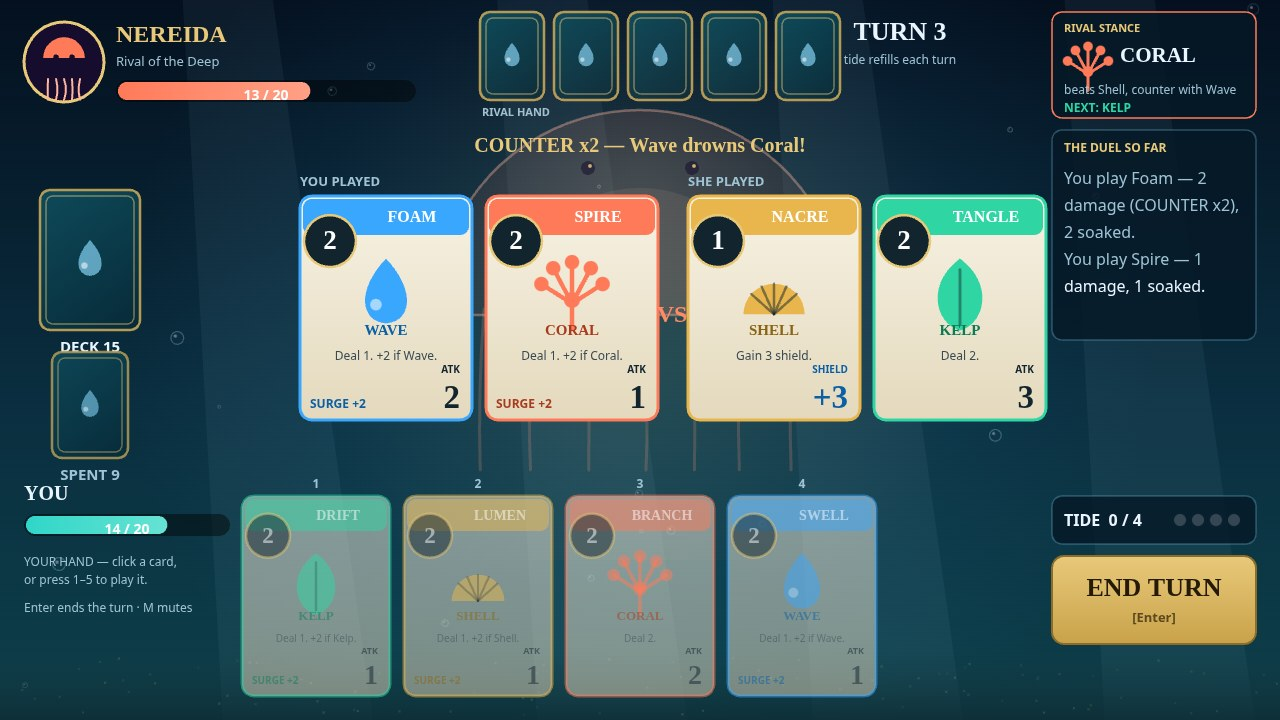
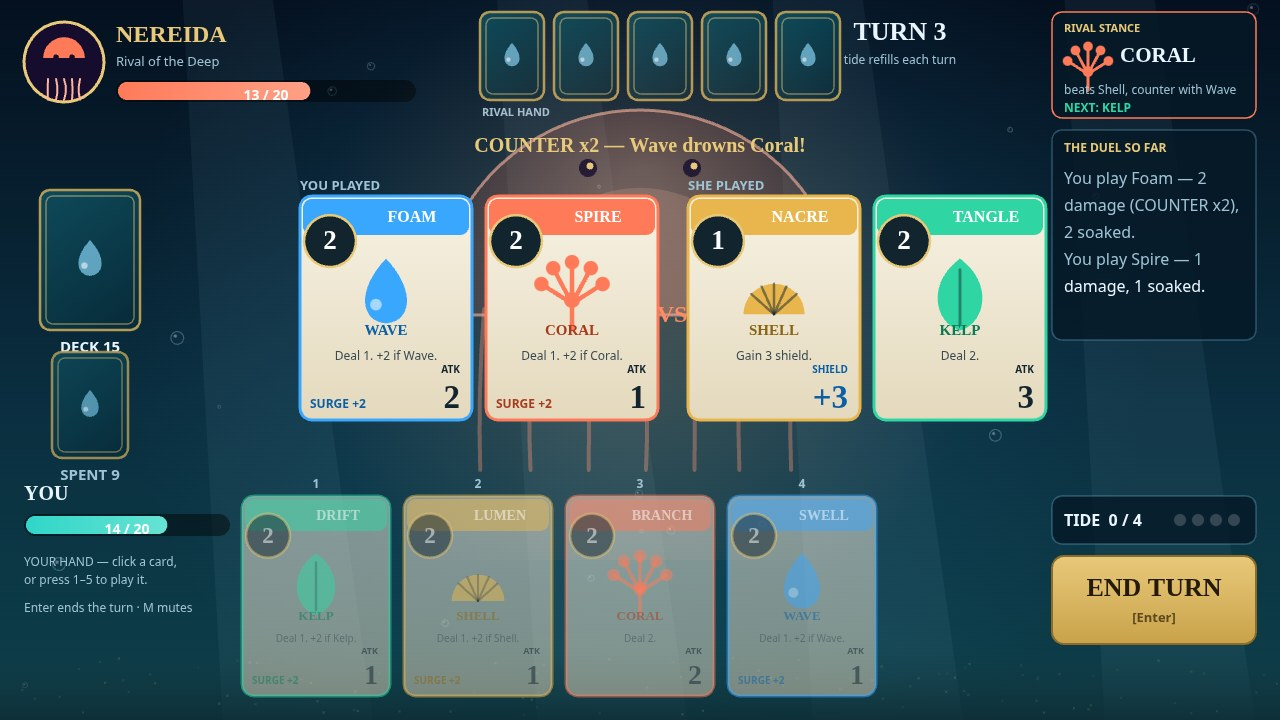
Initial entry: makefun-best-card-game-20261122-1826

diff --git a/game/src/render.js b/game/src/render.js
@@ -441,45 +441,47 @@ function drawNereidaFigure(ctx, world) {
   const domeY = 315;
   const r = 205;
   // Warm halo behind the whole clash, so the figure reads as one glow.
+  // Alpha ~2x the r1 values: the dome was a rumour at thumbnail size.
   const halo = ctx.createRadialGradient(cx, 310, 30, cx, 310, 340);
-  halo.addColorStop(0, 'rgba(255, 122, 89, 0.10)');
-  halo.addColorStop(0.6, 'rgba(255, 122, 89, 0.04)');
+  halo.addColorStop(0, 'rgba(255, 122, 89, 0.20)');
+  halo.addColorStop(0.6, 'rgba(255, 122, 89, 0.08)');
   halo.addColorStop(1, 'rgba(255, 122, 89, 0)');
   ctx.fillStyle = halo;
   ctx.fillRect(cx - 340, 0, 680, 560);
   // The dome: a half-disc rising above the clash row.
   const dome = ctx.createRadialGradient(cx, 190, 20, cx, 240, r);
-  dome.addColorStop(0, 'rgba(255, 170, 140, 0.17)');
-  dome.addColorStop(0.7, 'rgba(255, 122, 89, 0.10)');
-  dome.addColorStop(1, 'rgba(255, 122, 89, 0.04)');
+  dome.addColorStop(0, 'rgba(255, 170, 140, 0.30)');
+  dome.addColorStop(0.7, 'rgba(255, 122, 89, 0.18)');
+  dome.addColorStop(1, 'rgba(255, 122, 89, 0.08)');
   ctx.beginPath();
   ctx.arc(cx, domeY, r, Math.PI, 0);
   ctx.closePath();
   ctx.fillStyle = dome;
   ctx.fill();
-  ctx.lineWidth = 2.5;
-  ctx.strokeStyle = 'rgba(255, 181, 158, 0.38)';
+  ctx.lineWidth = 3;
+  ctx.strokeStyle = 'rgba(255, 181, 158, 0.60)';
   ctx.stroke();
   // Inner dome, a second shell of light.
   ctx.beginPath();
   ctx.arc(cx, domeY, r * 0.62, Math.PI, 0);
   ctx.closePath();
-  ctx.fillStyle = 'rgba(255, 190, 160, 0.09)';
+  ctx.fillStyle = 'rgba(255, 190, 160, 0.18)';
   ctx.fill();
   // Her eyes on the dome cap, above the cards: she is watching the duel.
-  ctx.fillStyle = 'rgba(22, 13, 46, 0.55)';
+  // Bigger and brighter than r1: dark discs 7 -> 9, gold glints 2 -> 3.5.
+  ctx.fillStyle = 'rgba(22, 13, 46, 0.80)';
   ctx.beginPath();
-  ctx.arc(cx - 52, 168, 7, 0, Math.PI * 2);
-  ctx.arc(cx + 52, 168, 7, 0, Math.PI * 2);
+  ctx.arc(cx - 52, 168, 9, 0, Math.PI * 2);
+  ctx.arc(cx + 52, 168, 9, 0, Math.PI * 2);
   ctx.fill();
-  ctx.fillStyle = 'rgba(232, 201, 122, 0.85)';
+  ctx.fillStyle = 'rgba(232, 201, 122, 1.0)';
   ctx.beginPath();
-  ctx.arc(cx - 50, 166, 2, 0, Math.PI * 2);
-  ctx.arc(cx + 54, 166, 2, 0, Math.PI * 2);
+  ctx.arc(cx - 50, 166, 3.5, 0, Math.PI * 2);
+  ctx.arc(cx + 54, 166, 3.5, 0, Math.PI * 2);
   ctx.fill();
   // Tentacles trailing behind the cards, swaying slowly on the clock.
-  ctx.strokeStyle = 'rgba(255, 150, 120, 0.20)';
-  ctx.lineWidth = 3;
+  ctx.strokeStyle = 'rgba(255, 150, 120, 0.36)';
+  ctx.lineWidth = 4;
   ctx.lineCap = 'round';
   for (let i = -3; i <= 3; i += 1) {
     const tx = cx + i * 52;
@@ -509,7 +511,10 @@ function drawClash(ctx, world) {
   const YOU_X = 300;
   const FOE_X = 688;
 
-  text(ctx, 'YOU PLAYED', YOU_X, 186, 'bold 13px system-ui, sans-serif', MUTED);
+  // Labels sit at baseline 190: glyph tops ~180, 6 px clear of the end
+  // ribbon's bottom edge (174) and 6 px clear of the cards (196). At 186
+  // the ribbon clipped their tops on win/loss.
+  text(ctx, 'YOU PLAYED', YOU_X, 190, 'bold 13px system-ui, sans-serif', MUTED);
   if (you.length === 0) {
     ctx.save();
     ctx.globalAlpha = 0.5;
@@ -529,7 +534,7 @@ function drawClash(ctx, world) {
 
   text(ctx, 'VS', 672, cy + cardH / 2 + 8, 'bold 24px Georgia, serif', CORAL_RED, 'center', 'middle');
 
-  text(ctx, 'SHE PLAYED', FOE_X, 186, 'bold 13px system-ui, sans-serif', MUTED);
+  text(ctx, 'SHE PLAYED', FOE_X, 190, 'bold 13px system-ui, sans-serif', MUTED);
   if (foe.length === 0) {
     ctx.save();
     ctx.globalAlpha = 0.5;
@@ -729,6 +734,12 @@ function drawEndScreen(ctx, world, won) {
   ctx.strokeStyle = color;
   ctx.stroke();
   text(ctx, title, 640, ry + rh / 2 + 1, 'bold 38px Georgia, serif', color, 'center', 'middle');
+  // Re-paint the clash labels AFTER the veil and ribbon, at full
+  // brightness: under the veil they came out dim, and at baseline 186
+  // the ribbon's bottom edge clipped their tops. Same baseline (190)
+  // as drawClash, so play and end screens agree.
+  text(ctx, 'YOU PLAYED', 300, 190, 'bold 13px system-ui, sans-serif', '#d7ecf7');
+  text(ctx, 'SHE PLAYED', 688, 190, 'bold 13px system-ui, sans-serif', '#d7ecf7');
   // Sub and stats in the gap below the clash cards (420) and above the
   // hand (496); the life line folds into the stats line so nothing
   // reaches the hand numbers at y 488.

diff --git a/goldfish-review-r2.md b/goldfish-review-r2.md
@@ -1,0 +1,161 @@
+# Goldfish Review R2 — TIDEGLASS DUEL (best-card-game-20261122-1826)
+
+Reviewed 23 Nov 2026 ~09:05 WIB, re-review of the polished entry. All 4
+polished screenshots viewed directly + top10-ref covers #5 (plucky-gecko-56,
+THE BAR) and #10 (akd170396) re-viewed + goldfish-review.md (r1) +
+build-log-polish.md read. No submit, no entry file changed. Competition:
+3,717 submissions, round 1 ranked 2,744, blind rounds. Round 3 cutoff
+10:26 WIB — this review lands ~1,5 jam before that cutoff.
+
+## VERDICT: BELUM LAYAK SUBMIT — satu micro-round terakhir (~30 menit, 1 builder), lalu submit sebelum 10:26 WIB
+
+Polish ronde 1 BENAR-BENAR membaik di gambar — bukan cuma klaim. Skor naik
+21,5 → 22,5/25 dan estimasi rank membaik. Tapi perbaikan #1 (figur Nereida)
+yang paling berdampak justru yang paling lemah hasilnya: figur ada di code
+tapi nyaris tak terlihat di gambar. Satu micro-round — naikkan visibilitas
+figur + betulkan label yang ketutup pita — adalah perbaikan terakhir yang
+masih sepadan. Kalau micro-round itu tidak sempat selesai sebelum ~10:00 WIB,
+submit apa adanya: kondisi saat ini sudah jauh lebih baik dari r1 dan layak
+jadi kandidat top-50 yang sah. Jangan lewatkan ronde demi kesempurnaan.
+
+## Skor per kriteria judge (total 22,5 / 25; r1 21,5 — delta +1,0)
+
+### 1. Complete card game in screenshots — 4,75 / 5 (r1: 4,5; +0,25)
+**Membaik, terbukti di gambar:** Cover sekarang clash 4 suit 4 warna —
+Foam Wave (biru) + Spire Coral (oranye) vs Nacre Shell (emas) + Tangle Kelp
+(hijau). Bukan lagi 4× biru monoton. Duel-log naik ke 16 px dan terbaca di
+ukuran penuh ("You play Foam — 2 damage (COUNTER x2), 2 soaked." /
+"You play Spire — 1 damage, 1 soaked."). Tangan cover 4 kartu 4 suit
+(Drift Kelp, Lumen Shell, Branch Coral, Swell Wave).
+**Masih kurang:** (a) Log cover cuma 2 baris terisi — panelnya muat 5 tapi
+turn 3 baru 2 aksi, jadi separuh panel kosong. (b) Tangan cover keempatnya
+tampak redup/dimmed — tide 0/4, semua kartu tak bisa dimainkan lagi, jadi
+"pilihan" di tangan terbaca mati, bukan hidup. (c) Tangan tetap 4 kartu,
+bukan 5 penuh (satu sudah dimainkan — wajar, tapi tetap).
+
+### 2. Fun and depth — 4,0 / 5 (r1: 4,0; +0)
+**Tidak berubah — dan itu jujur:** Mekanik tidak disentuh polish
+(autopilot identik: smart 17/20 vs reckless 2/20, validasi lolos). Cover
+sedikit lebih komunikatif soal keputusan (tangan 4 suit = counter vs guard
+vs surge terbaca), tapi itu presentasi, bukan depth baru. Satu rival, satu
+duel, tanpa campaign/ladder/deckbuilder — tetap kalah scope dari #4
+(campaign 5 rival + deckbuilder) dan #8 (3-lane scoring). Tidak ada fix
+jujur <1 jam untuk ini; jangan memalsukan ladder.
+
+### 3. Feel and polish — 4,0 / 5 (r1: 3,5; +0,5)
+**Membaik, terbukti di gambar:** Headline win/loss SUDAH di pita atas dan
+TIDAK lagi menutupi nama kartu — UNDERTOW / FROND / HOLDFAST (win) dan
+PEARL / DRIFT / RIPPLE / DEEPWOOD (loss) terbaca penuh. Tangan loss sudah
+campuran (Reef Coral guard + Nacre Shell guard + Lumen Shell surge +
+Breaker Wave strike) — bukan lagi 3× "Gain 3 shield". Sub + stats satu
+baris terbaca ("Won in 7 turns · 20 damage dealt · 2 surges · 5 counters").
+**Masih kurang:** (a) CACAT BARU dari pita: label "YOU PLAYED" (dan di
+loss, "SHE PLAYED") terpotong separuh di tepi bawah pita — pita menutupi
+bagian atas label di win DAN loss. (b) Tangan loss masih 2× "Gain 3 shield"
+(Reef + Nacre) — lebih baik dari 3×, tapi masih repetitif. (c) Pip tide di
+panel TIDE win shot meluber melewati tepi panel (pre-existing, dicatat
+build log; tideMax 6). (d) Kartu clash di end screen masih agak redup,
+meski nama tetap terbaca.
+
+### 4. Look and originality — 4,75 / 5 (r1: 4,5; +0,25)
+**Membaik, terbukti di gambar:** Clash 4 warna mengubah cover dari
+monokrom biru jadi penuh warna — di thumbnail pun bedanya langsung
+kelihatan. Tema deep-sea tetap pembeda terkuat vs 7/10 field ember/ash.
+Banner "COUNTER x2 — Wave drowns Coral!" + panel stance + log bikin cover
+terasa seperti momen duel, bukan pajangan kartu.
+**Masih kurang — ini yang paling penting:** Figur Nereida besar HAMPIR
+TIDAK KELIHATAN. Yang terlihat cuma busur kubah sangat samar di atas kartu
++ 2 titik mata kecil + garis tentakel tipis di bawah kartu. Di thumbnail
+judge, figur praktis tidak ada — momen fokal dramatis ala #5 ("Vex strikes
+for 14!" + potret besar) tetap belum tercapai. Alpha 0,04–0,17 terlalu
+rendah. Title screen tetap gelap/kosong di tepinya (tak berubah dari r1).
+
+### 5. Structure — 5,0 / 5 (r1: 5,0; +0)
+**Tidak berubah, tetap maksimal:** Dossier 700.871 byte (< 1,5 MiB),
+deterministik 2× shoot (sha256 identik), 0 console error, 0 request
+eksternal, autopilot identik baseline. Tidak ada yang perlu diperbaiki.
+
+## Status 3 perbaikan ronde 1 (dinilai dari gambar, bukan klaim build log)
+
+| # | Perbaikan r1 | Status | Bukti di gambar |
+|---|---|---|---|
+| 1a | Cover clash campuran suit | ✅ TERBUKTI PENUH | 4 suit 4 warna di baris clash cover; tangan cover juga 4 suit |
+| 1b | Figur Nereida besar di belakang clash | ⚠ SETENGAH — ada di code, nyaris tak terlihat | Busur kubah + 2 titik mata samar; di thumbnail praktis hilang. Ini satu-satunya perbaikan yang BELUM membaik secara visual |
+| 2a | Headline win/loss ke pita atas, tidak menutupi kartu | ✅ TERBUKTI PENUH | Semua nama kartu clash terbaca penuh di win + loss |
+| 2b | Reshoot loss tangan campuran | ✅ TERBUKTI SEBAGIAN BESAR | 3 suit 3 kind di tangan loss; tapi masih 2× "Gain 3 shield" |
+| 3 | Duel-log +33% (12→16 px), 5 baris | ✅ TERBUKTI SEBAGIAN BESAR | Font jelas lebih besar, terbaca di ukuran penuh; tapi cover baru terisi 2 baris (turn 3), panel separuh kosong |
+
+## Estimasi rank (kalibrasi kejujuran)
+
+Kalibrasi WAJIB: heist r3 Goldfish estimasi rank 20–45 (sentral ~27–30),
+AKTUAL 154/5761 — meleset ~5×. Ronde 1 entry ini: sentral ~120. Polish ini
+menaikkan skor 21,5 → 22,5 (+1,0) lewat perbaikan visual yang terbukti —
+tapi perbaikan paling berdampak (figur fokal) tidak mendarat, dan tidak ada
+depth baru. Jadi kenaikan estimasi harus SEDIKIT, bukan lompatan. Field:
+3.717 entry, 2.744 sudah di-rank ronde 1. Garis hadiah top-10 berarti
+mengalahkan game lengkap sekelas #5/#10 — Tideglass sekarang setara mereka
+di kelengkapan cover, masih di bawah di momen fokal dramatis dan scope
+(campaign/ladder).
+
+- **Range: 40 – 250 dari 3.717**
+- **Sentral: ~100** (r1: ~120)
+- **Peluang top 50: ~35%** (r1: ~30%)
+- **Peluang top 25: ~12%** (r1: ~10%)
+- **Peluang top 10: ~4%** (r1: ~3%)
+
+Artinya: lolos cut top-40 dev board untuk final heat itu plausibel
+(~35–40%), tapi hadiah top-10 tetap butuh keberuntungan pairing + micro-round
+di bawah. Entry ini BELUM layak top-10 — katakan apa adanya. Angka di atas
+sudah didiskon dari pembacaan naif ("kualitas ~25–40") dengan faktor ~3–4×,
+sama seperti r1.
+
+## Kekuatan (urut)
+
+1. Cover lengkap + sekarang berwarna: meja mid-duel 4 suit, banner counter,
+   stance, log terbaca, kedua tangan, life, tide, END TURN dalam satu frame.
+2. Tema deep-sea — pembeda visual paling kuat melawan 7/10 field ember/ash.
+3. Depth terbukti di code + autopilot (17/20 smart vs 2/20 reckless) —
+   winnable DAN losable, bukan pajangan.
+4. Headline win/loss sudah tidak menutupi bukti duel.
+5. Struktur rapi, dossier 701 KB, deterministik, 0 error, 0 request eksternal.
+
+## Kelemahan (urut prioritas)
+
+1. **Figur Nereida nyaris tak terlihat** — perbaikan #1 ronde 1 setengah
+   gagal; cover masih tanpa momen fokal dramatis vs #5/#10.
+2. **Label "YOU PLAYED"/"SHE PLAYED" terpotong pita** — cacat baru dari
+   polish, kelihatan di win DAN loss.
+3. **Satu rival, satu duel** — tanpa campaign/ladder/deckbuilder, kalah scope
+   dari #4/#8 (tidak bisa diperbaiki jujur dalam <1 jam).
+4. **Tangan cover redup (tide 0/4)** — pilihan di tangan terbaca mati;
+   log cover baru 2 baris, panel separuh kosong.
+5. Title screen gelap/kosong di tepi; pip tide meluber di win shot;
+   tangan loss masih 2× guard identik.
+
+## Perbaikan lanjutan (satu micro-round, ~30 menit, 1 builder)
+
+ADA satu perbaikan yang masih sepadan — dan hanya satu:
+
+1. **Naikkan visibilitas figur Nereida + betulkan label pita (WAJIB, ~30 mnt).**
+   - `drawNereidaFigure`: naikkan alpha ~2× (mis. 0,04–0,17 → 0,10–0,30),
+     perbesar/terangkan mata, tambah glow di tepi kubah — supaya figur
+     terbaca di thumbnail TANPA menutupi kartu. Reshoot cover saja, cek
+     di thumbnail kecil sebelum lanjut.
+   - Pita win/loss: geser pita naik ~6 px ATAU geser label YOU/SHE PLAYED
+     turun ~10 px supaya label tidak terpotong; reshoot win + loss.
+   - Lalu re-validasi dossier + submit sebelum 10:26 WIB.
+   - Dampak: kriteria 4 (momen fokal — satu-satunya gap besar vs #5) +
+     kriteria 3 (cacat label hilang). Ini perbaikan terakhir yang masih
+     mengubah rank; setelah ini tidak ada lagi fix <1 jam yang sepadan.
+
+**Tidak ada perbaikan lain yang sepadan:** seed-hunting tangan loss tanpa
+guard ganda, atau cover dengan tide tersisa supaya tangan terang — keduanya
+marginal, jangan habiskan waktu. Setelah micro-round di atas: TIDAK ADA lagi
+perbaikan lanjutan — submit.
+
+## Catatan waktu
+
+Review selesai ~09:05 WIB. Cutoff ronde 3: 10:26 WIB. Micro-round di atas
+muat sebelum cutoff. Kalau tidak selesai sebelum ~10:00 WIB, submit apa
+adanya — kondisi saat ini sudah lebih baik dari r1 dan tidak boleh
+melewatkan ronde.

diff --git a/build-log-polish-r2.md b/build-log-polish-r2.md
@@ -1,0 +1,96 @@
+# Build log — micro-polish round (r2 → r3), TIDEGLASS DUEL
+
+Competition: **best-card-game-20261122-1826**. Micro-polish only,
+23 Nov 2026 ~09:10–09:20 WIB. No submit, no repo, no bundle — entry
+files + re-shoot + re-validation only. Goldfish re-review r2:
+22,5/25, sentral rank ~100/3717, satu micro-round terakhir masih
+sepadan. Dua item di bawah saja, sesuai brief koordinator; tidak ada
+perubahan mekanik, tidak ada ganti seed.
+
+## Perubahan per file
+
+### `game/src/render.js` (3 pesan edit — figur, label YOU, label SHE + redraw)
+1. **Figur Nereida lebih kelihatan** (`drawNereidaFigure`): semua
+   alpha ~2× dari r1 — halo 0,10→0,20 / 0,04→0,08; kubah
+   0,17→0,30 / 0,10→0,18 / 0,04→0,08; garis kubah 0,38→0,60
+   (lebar 2,5→3); kubah dalam 0,09→0,18; tentakel 0,20→0,36
+   (lebar 3→4). Mata diperbesar + diterangkan: cakram gelap r7→9
+   (alpha 0,55→0,80), kilau emas r2→3,5 (alpha 0,85→1,0). Figur
+   tetap di layer belakang: dipanggil di awal `drawClash`, kartu
+   (kertas opaque) melukis di atasnya.
+2. **Label terpotong** (`drawClash` + `drawEndScreen`): baseline
+   label YOU/SHE PLAYED 186→190 — puncak huruf ~180, 6 px di bawah
+   tepi bawah pita (174) dan 6 px di atas kartu (196). Plus
+   `drawEndScreen` melukis ulang kedua label SETELAH veil + pita
+   dengan warna terang `#d7ecf7`, supaya tidak lagi redup oleh veil
+   0,55. Baseline sama (190) di play dan end screen.
+
+### File yang TIDAK disentuh
+`shots.js` (seed tetap: play 542, loss 14, win/start 1),
+`shots.json`, `vendor/makefun-game.ts`, `main.ts`, `serve.ts`,
+`README.md`, `LICENSE`, `config.js`, `state.js`, `deck.js`,
+`rival.js`, dan semua modul game lain. Tidak ada file di luar entry
+dir kecuali scratch `/tmp` (crop inspeksi, log serve).
+
+## Bukti visual (dilihat langsung dari 3 JPG hasil re-shoot)
+- (a) Cover 1-play: kubah koral besar jelas di atas kartu clash,
+  2 mata (cakram gelap + kilau emas) kelihatan, 7 tentakel
+  kelihatan di celah + di bawah kartu — ubur-ubur raksasa di
+  belakang kartu, bukan busur samar. Di thumbnail 320 px, busur
+  kubah + glow tetap terbaca di belakang kartu.
+- (b) Kartu clash tetap terbaca penuh di semua shot: FOAM / SPIRE /
+  NACRE / TANGLE (cover), UNDERTOW / FROND / HOLDFAST (win),
+  PEARL / DRIFT / RIPPLE / DEEPWOOD (loss) — nama, nilai ATK,
+  dan teks aturan utuh.
+- (c) Label YOU PLAYED / SHE PLAYED utuh + terang di win DAN loss,
+  jelas terpisah dari tepi bawah pita. Di play screen juga utuh.
+- (d) Banner "COUNTER x2 — Wave drowns Coral!" tetap terbaca di
+  atas kubah yang lebih terang.
+
+## Validasi (validator r1 `/tmp/validate-card.mjs`, dijalankan penuh)
+
+- `node --check` 10 file game JS: PASS. `vendor/makefun-game.ts`
+  loads: PASS.
+- Autopilot seeds 1–20: **smart 17W/3L avg 5,9 turn**,
+  **reckless 2W/18L avg 5,3 turn** — IDENTIK dengan baseline r1/r2
+  (17/20 vs 2/20); mekanik tidak bergeser.
+- Live Chromium (Playwright 1255, keyboard play Enter/1/Enter):
+  **0 console error, 0 exception, 0 external request**.
+- `main.ts` 2× ke 2 dir scratch: output byte-identical. Dossier
+  **708.406 byte** (< 1,5 MiB), schema `makefun/dossier/v1`,
+  4 images.
+- `grep game/` http(s)/fetch/WebSocket: clean.
+- Hasil akhir validator: **VALIDATION: ALL PASS**.
+- Catatan: run pertama validator crash di path serve-belum-jalan
+  (bug pra-ada di validator: `sleep` dipakai sebelum deklarasi
+  `const sleep` — hanya kena bila serve belum jalan). Serve hasil
+  spawn-nya tetap hidup, run kedua penuh lolos. Bukan bug entry.
+
+## Screenshot baru (1280×720 JPEG q88, deterministik 2×)
+
+| File | Bytes | sha256 |
+| --- | --- | --- |
[4 lines of base64/hex data omitted]
+
+Semua < 256 KiB; sha256 identik antar 2 run shoot (di dalam
+validator). `2-start.jpg` sha-nya TIDAK berubah dari r2 — title
+screen memang tak tersentuh.
+
+## Catatan untuk koordinator
+
+- Serve `node serve.ts --port 8903` masih jalan detached di
+  background (dipakai validator + shoot); matikan bila sudah tidak
+  perlu.
+- Di end screen, mata Nereida (y 168) tetap tertutup pita (y
+  120–174) — itu by design pita; figur di win/loss terbaca lewat
+  busur kubah + tentakel, mata hanya di play screen. Kalau mau mata
+  juga kelihatan di end screen, pita harus digeser — di luar brief
+  micro-round ini, jangan dikejar sebelum cutoff.
+- Satu catatan pra-ada (bukan dari polish ini, tidak disentuh):
+  pip tide di panel TIDE meluber 1 pip saat tideMax 6 (win shot).
+- Skill: `makefun-transcript-gate` (file-tool-only, ≥2 pesan per
+  file yang diubah: render.js 3 pesan edit; build log ini via
+  file-write tool).
